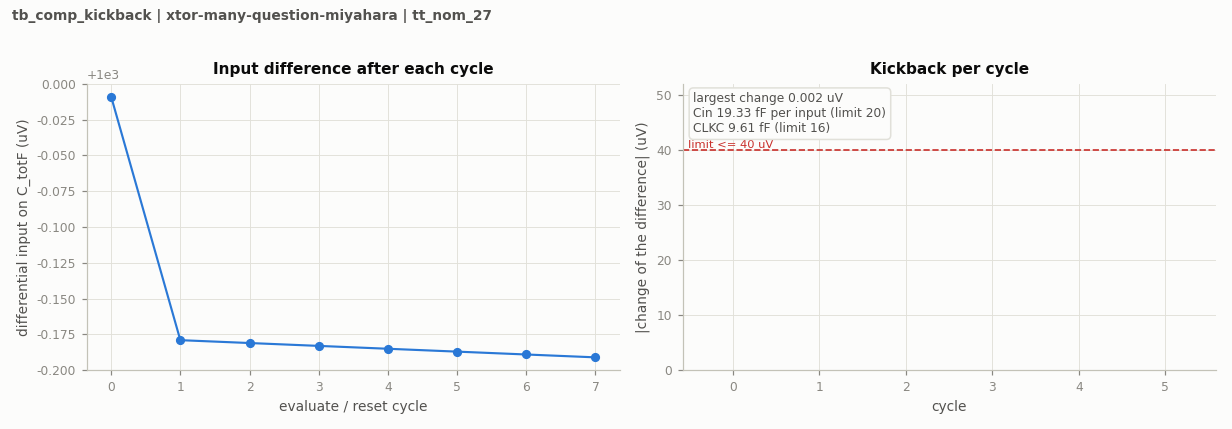
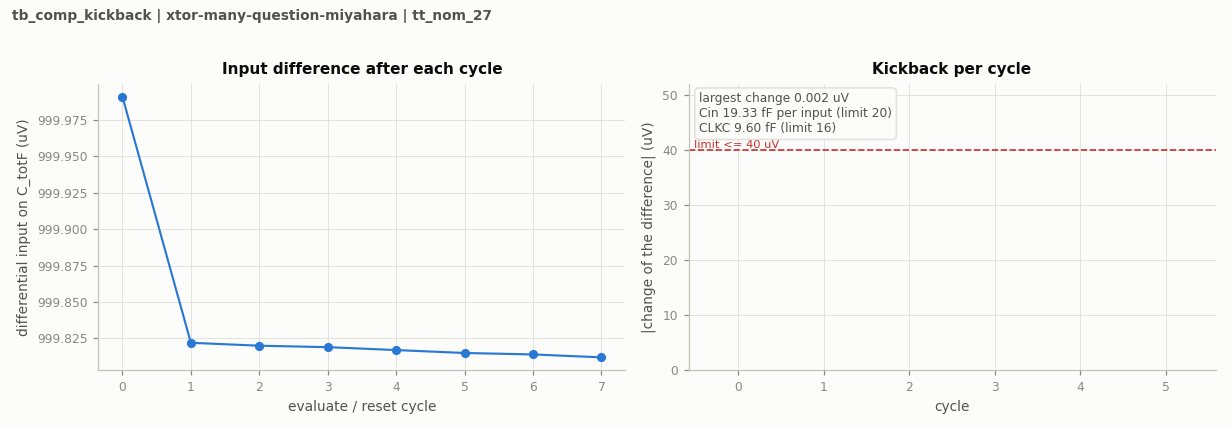
test(comp): record B13 official TT capacitance gate

diff --git a/design/xtor/adc_comp/many-question-miyahara/README.md b/design/xtor/adc_comp/many-question-miyahara/README.md
@@ -4,9 +4,9 @@ The canonical `adc_comp.scs` now contains the electrically identical source scre
 
 The source contains 43 MOS devices and 9 physical MOM capacitors. All dimensions and terminal parasitics come from successful callbacks or exact validated geometry reuse. Physical rail loads carry persistent current; [ENERGY-COMPARISON.md](ENERGY-COMPARISON.md) reports measured complete-circuit AVDD costs. No power limit or topology-efficiency conclusion is implied.
 
-The old canonical netlist and all 92 official records are preserved at commit `740fe564b380bc8e3b6526d8ac109503325935ad` and in a SHA-verified archive. At preservation, 2 records matched the immediate old canonical source and 90 already referred to older sources. All 92 are stale for the new source. They will be replaced only by actual new-source runs through the existing official runner; no private measurements or old metadata are relabeled. [Promotion proof](PROMOTION-BUFFER-V13.md) records source equivalence and preserved hashes. [Historical baseline](BASELINE-BEFORE-BUFFER-V13.md) retains the previous narrative and experiment links.
+The old canonical netlist and all 92 official records are preserved at commit `740fe564b380bc8e3b6526d8ac109503325935ad` and in a SHA-verified archive. At preservation, 2 records matched the immediate old canonical source and 90 already referred to older sources. At promotion all 92 were stale for the new source; one genuine new-source TT capacitance/kickback record now matches B13 and 91 remain stale. They will be replaced only by actual new-source runs through the existing official runner; no private measurements or old metadata are relabeled. [Promotion proof](PROMOTION-BUFFER-V13.md) records source equivalence and preserved hashes. [Historical baseline](BASELINE-BEFORE-BUFFER-V13.md) retains the previous narrative and experiment links.
 
-Next formal gates are TT input/clock capacitance and kickback, followed by TT noise. Remaining-corner SOA, all required formal corners, Monte Carlo and mixed-top qualification remain to establish. No old capacitance, noise, mismatch or qualification result is inherited.
+[Formal TT capacitance/kickback](FORMAL-BUFFER-V13.md) passes: input 19.328731 fF, CLKC 9.604338 fF and kickback 0.0016492604 uV. The next formal gate is TT noise. Remaining-corner SOA, all required formal corners, Monte Carlo and mixed-top qualification remain to establish. No old capacitance, noise, mismatch or qualification result is inherited.
 
 ![Current complete transistor schematic](schematic.png)
 

diff --git a/design/xtor/adc_comp/many-question-miyahara/FORMAL-BUFFER-V13.md b/design/xtor/adc_comp/many-question-miyahara/FORMAL-BUFFER-V13.md
@@ -1,0 +1,17 @@
+# BUFFER-V13: genuine new-source formal gates
+
+The canonical source is electrically identical to the ten-key-corner and tight-convergence source. The existing official runner, original testbench, numerical settings, measurement and recorder are unchanged. Private screens are not adopted as official records.
+
+## TT capacitance and kickback: pass
+
[1 lines of base64/hex data omitted]
+
+| Metric | Measured | Limit |
+|---|---:|---:|
+| Input capacitance | 19.328731218738 fF | 20 fF |
+| CLKC capacitance | 9.604337628086 fF | 16 fF |
+| Differential kickback | 0.001649260400 uV | 40 uV |
+
+The [official TT result](../../../../results/adc_comp/tb_comp_kickback/xtor-many-question-miyahara/tt_nom_27.json) retains its actual clean-source metadata. The complete original run and result figures are SHA-verified in a private archive, and the exact owned remote directory is confirmed absent. Execution uses +aps without explicit +mt; logs confirm effective single-thread operation.
+
+One of 92 current result files now matches B13; 91 old-source records remain stale. The next gate is the prescribed official TT 17 x 512 noise test, with the original bandwidth and seed. No B12 noise, remaining-corner, Monte Carlo or mixed-top result transfers.
